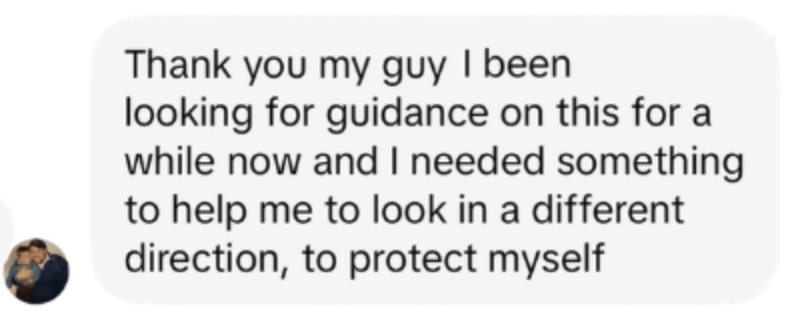
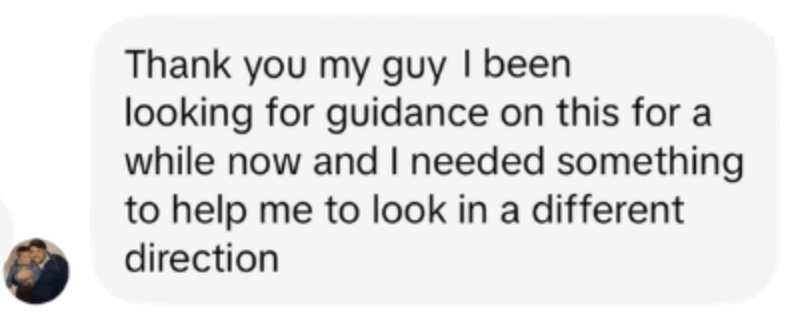
Trim 'to protect myself' from r05 review per Sean
Claude-Session: https://claude.ai/code/session_019VajvdXMWmseeJRhHBZSah

Changed region(s): [[0.3395, 0.7453, 0.7716, 0.8696]]

diff --git a/index.html b/index.html
@@ -103,7 +103,7 @@
             <li class="pc-review"><img src="/images/reviews/r15.png?v=4" alt="Message from a man Sean helped" loading="lazy" /></li>
             <li class="pc-review"><img src="/images/reviews/r17.png?v=4" alt="Message from a man Sean helped" loading="lazy" /></li>
             <li class="pc-review"><img src="/images/reviews/r19.png?v=6" alt="Message from a man Sean helped" loading="lazy" /></li>
-            <li class="pc-review"><img src="/images/reviews/r05.png?v=3" alt="Message from a man Sean helped" loading="lazy" /></li>
+            <li class="pc-review"><img src="/images/reviews/r05.png?v=4" alt="Message from a man Sean helped" loading="lazy" /></li>
             <li class="pc-review"><img src="/images/reviews/r06.png?v=2" alt="Message from a man Sean helped" loading="lazy" /></li>
             <li class="pc-review"><img src="/images/reviews/r07.png?v=2" alt="Message from a man Sean helped" loading="lazy" /></li>
             <li class="pc-review"><img src="/images/reviews/r10.png?v=2" alt="Message from a man Sean helped" loading="lazy" /></li>
